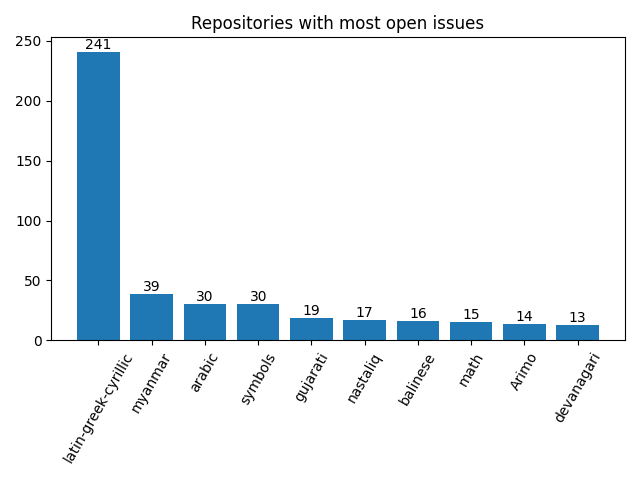
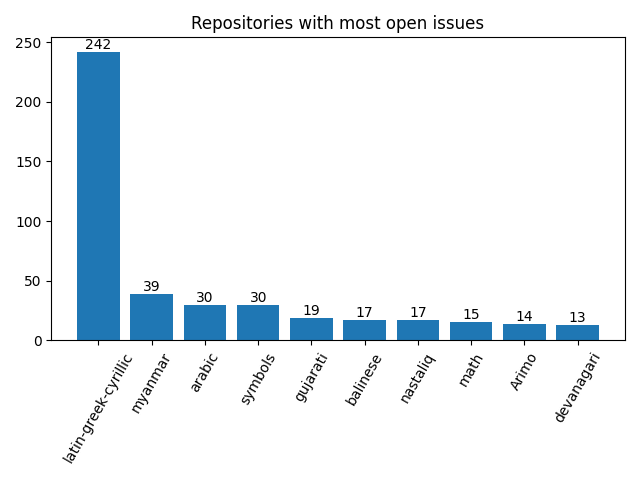
Apply automatic changes

diff --git a/docs/analytics.html b/docs/analytics.html
@@ -79,7 +79,7 @@ td .material-icons { display:inline-flex; vertical-align: top; font-size:1.1rem;
 						</tr>
 						<tr>
 							<td>Mar</td>
-							<td>26</td>
+							<td>27</td>
 							<td>11</td>
 						</tr>
 						<tr>
@@ -124,7 +124,7 @@ td .material-icons { display:inline-flex; vertical-align: top; font-size:1.1rem;
 						</tr>
 						<tr>
 							<td>Dec</td>
-							<td>2</td>
+							<td>7</td>
 							<td>13</td>
 						</tr>
 					</table>
@@ -145,7 +145,7 @@ td .material-icons { display:inline-flex; vertical-align: top; font-size:1.1rem;
 							<td>
 								<a href="http://github.com/notofonts/latin-greek-cyrillic">latin-greek-cyrillic</a>
 							</td>
-							<td>241</td>
+							<td>242</td>
 						</tr>
 						<tr>
 							<td>
@@ -173,15 +173,15 @@ td .material-icons { display:inline-flex; vertical-align: top; font-size:1.1rem;
 						</tr>
 						<tr>
 							<td>
-								<a href="http://github.com/notofonts/nastaliq">nastaliq</a>
+								<a href="http://github.com/notofonts/balinese">balinese</a>
 							</td>
 							<td>17</td>
 						</tr>
 						<tr>
 							<td>
-								<a href="http://github.com/notofonts/balinese">balinese</a>
+								<a href="http://github.com/notofonts/nastaliq">nastaliq</a>
 							</td>
-							<td>16</td>
+							<td>17</td>
 						</tr>
 						<tr>
 							<td>
@@ -216,25 +216,25 @@ td .material-icons { display:inline-flex; vertical-align: top; font-size:1.1rem;
 				<tr>
 					<td>1</td>
 					<td>
-						<a href="http://github.com/notofonts/avestan">avestan</a>,  						<a href="http://github.com/notofonts/bamum">bamum</a>,  						<a href="http://github.com/notofonts/carian">carian</a>,  						<a href="http://github.com/notofonts/deseret">deseret</a>,  						<a href="http://github.com/notofonts/gothic">gothic</a>,  						<a href="http://github.com/notofonts/hanunoo">hanunoo</a>,  						<a href="http://github.com/notofonts/inscriptional-parthian">inscriptional-parthian</a>,  						<a href="http://github.com/notofonts/linear-a">linear-a</a>,  						<a href="http://github.com/notofonts/lisu">lisu</a>,  						<a href="http://github.com/notofonts/mahajani">mahajani</a>,  						<a href="http://github.com/notofonts/masaram-gondi">masaram-gondi</a>,  						<a href="http://github.com/notofonts/meetei-mayek">meetei-mayek</a>,  						<a href="http://github.com/notofonts/mende-kikakui">mende-kikakui</a>,  						<a href="http://github.com/notofonts/miao">miao</a>,  						<a href="http://github.com/notofonts/newa">newa</a>,  						<a href="http://github.com/notofonts/old-hungarian-ui">old-hungarian-ui</a>,  						<a href="http://github.com/notofonts/old-italic">old-italic</a>,  						<a href="http://github.com/notofonts/old-persian">old-persian</a>,  						<a href="http://github.com/notofonts/old-uyghur">old-uyghur</a>,  						<a href="http://github.com/notofonts/phoenician">phoenician</a>,  						<a href="http://github.com/notofonts/runic">runic</a>,  						<a href="http://github.com/notofonts/saurashtra">saurashtra</a>,  						<a href="http://github.com/notofonts/sinhala">sinhala</a>,  						<a href="http://github.com/notofonts/sogdian">sogdian</a>,  						<a href="http://github.com/notofonts/tai-le">tai-le</a>,  						<a href="http://github.com/notofonts/thaana">thaana</a>,  						<a href="http://github.com/notofonts/wancho">wancho</a>,  						<a href="http://github.com/notofonts/warang-citi">warang-citi</a> 
+						<a href="http://github.com/notofonts/avestan">avestan</a>,  						<a href="http://github.com/notofonts/bamum">bamum</a>,  						<a href="http://github.com/notofonts/carian">carian</a>,  						<a href="http://github.com/notofonts/deseret">deseret</a>,  						<a href="http://github.com/notofonts/gothic">gothic</a>,  						<a href="http://github.com/notofonts/hanunoo">hanunoo</a>,  						<a href="http://github.com/notofonts/inscriptional-parthian">inscriptional-parthian</a>,  						<a href="http://github.com/notofonts/linear-a">linear-a</a>,  						<a href="http://github.com/notofonts/lisu">lisu</a>,  						<a href="http://github.com/notofonts/mahajani">mahajani</a>,  						<a href="http://github.com/notofonts/masaram-gondi">masaram-gondi</a>,  						<a href="http://github.com/notofonts/meetei-mayek">meetei-mayek</a>,  						<a href="http://github.com/notofonts/mende-kikakui">mende-kikakui</a>,  						<a href="http://github.com/notofonts/miao">miao</a>,  						<a href="http://github.com/notofonts/newa">newa</a>,  						<a href="http://github.com/notofonts/old-italic">old-italic</a>,  						<a href="http://github.com/notofonts/old-persian">old-persian</a>,  						<a href="http://github.com/notofonts/old-uyghur">old-uyghur</a>,  						<a href="http://github.com/notofonts/phoenician">phoenician</a>,  						<a href="http://github.com/notofonts/runic">runic</a>,  						<a href="http://github.com/notofonts/saurashtra">saurashtra</a>,  						<a href="http://github.com/notofonts/sinhala">sinhala</a>,  						<a href="http://github.com/notofonts/sogdian">sogdian</a>,  						<a href="http://github.com/notofonts/tai-le">tai-le</a>,  						<a href="http://github.com/notofonts/thaana">thaana</a>,  						<a href="http://github.com/notofonts/wancho">wancho</a>,  						<a href="http://github.com/notofonts/warang-citi">warang-citi</a> 
 					</td>
 				</tr>
 				<tr>
 					<td>2</td>
 					<td>
-						<a href="http://github.com/notofonts/cham">cham</a>,  						<a href="http://github.com/notofonts/chorasmian">chorasmian</a>,  						<a href="http://github.com/notofonts/coptic">coptic</a>,  						<a href="http://github.com/notofonts/elbasan">elbasan</a>,  						<a href="http://github.com/notofonts/elymaic">elymaic</a>,  						<a href="http://github.com/notofonts/georgian">georgian</a>,  						<a href="http://github.com/notofonts/hanifi-rohingya">hanifi-rohingya</a>,  						<a href="http://github.com/notofonts/inscriptional-pahlavi">inscriptional-pahlavi</a>,  						<a href="http://github.com/notofonts/kharoshthi">kharoshthi</a>,  						<a href="http://github.com/notofonts/lao">lao</a>,  						<a href="http://github.com/notofonts/limbu">limbu</a>,  						<a href="http://github.com/notofonts/lydian">lydian</a>,  						<a href="http://github.com/notofonts/marchen">marchen</a>,  						<a href="http://github.com/notofonts/meroitic">meroitic</a>,  						<a href="http://github.com/notofonts/multani">multani</a>,  						<a href="http://github.com/notofonts/nko">nko</a>,  						<a href="http://github.com/notofonts/old-hungarian">old-hungarian</a>,  						<a href="http://github.com/notofonts/old-turkic">old-turkic</a>,  						<a href="http://github.com/notofonts/pahawh-hmong">pahawh-hmong</a>,  						<a href="http://github.com/notofonts/phags-pa">phags-pa</a>,  						<a href="http://github.com/notofonts/psalter-pahlavi">psalter-pahlavi</a>,  						<a href="http://github.com/notofonts/samaritan">samaritan</a>,  						<a href="http://github.com/notofonts/sharada">sharada</a>,  						<a href="http://github.com/notofonts/yezidi">yezidi</a>,  						<a href="http://github.com/notofonts/zanabazar-square">zanabazar-square</a> 
+						<a href="http://github.com/notofonts/cham">cham</a>,  						<a href="http://github.com/notofonts/chorasmian">chorasmian</a>,  						<a href="http://github.com/notofonts/coptic">coptic</a>,  						<a href="http://github.com/notofonts/elbasan">elbasan</a>,  						<a href="http://github.com/notofonts/elymaic">elymaic</a>,  						<a href="http://github.com/notofonts/georgian">georgian</a>,  						<a href="http://github.com/notofonts/hanifi-rohingya">hanifi-rohingya</a>,  						<a href="http://github.com/notofonts/inscriptional-pahlavi">inscriptional-pahlavi</a>,  						<a href="http://github.com/notofonts/kharoshthi">kharoshthi</a>,  						<a href="http://github.com/notofonts/lao">lao</a>,  						<a href="http://github.com/notofonts/limbu">limbu</a>,  						<a href="http://github.com/notofonts/lydian">lydian</a>,  						<a href="http://github.com/notofonts/marchen">marchen</a>,  						<a href="http://github.com/notofonts/meroitic">meroitic</a>,  						<a href="http://github.com/notofonts/multani">multani</a>,  						<a href="http://github.com/notofonts/nko">nko</a>,  						<a href="http://github.com/notofonts/old-hungarian-ui">old-hungarian-ui</a>,  						<a href="http://github.com/notofonts/old-turkic">old-turkic</a>,  						<a href="http://github.com/notofonts/pahawh-hmong">pahawh-hmong</a>,  						<a href="http://github.com/notofonts/phags-pa">phags-pa</a>,  						<a href="http://github.com/notofonts/psalter-pahlavi">psalter-pahlavi</a>,  						<a href="http://github.com/notofonts/samaritan">samaritan</a>,  						<a href="http://github.com/notofonts/sharada">sharada</a>,  						<a href="http://github.com/notofonts/yezidi">yezidi</a>,  						<a href="http://github.com/notofonts/zanabazar-square">zanabazar-square</a> 
 					</td>
 				</tr>
 				<tr>
 					<td>3</td>
 					<td>
-						<a href="http://github.com/notofonts/Cousine">Cousine</a>,  						<a href="http://github.com/notofonts/Tinos">Tinos</a>,  						<a href="http://github.com/notofonts/ahom">ahom</a>,  						<a href="http://github.com/notofonts/duployan">duployan</a>,  						<a href="http://github.com/notofonts/ethiopic">ethiopic</a>,  						<a href="http://github.com/notofonts/glagolitic">glagolitic</a>,  						<a href="http://github.com/notofonts/gunjala-gondi">gunjala-gondi</a>,  						<a href="http://github.com/notofonts/mandaic">mandaic</a>,  						<a href="http://github.com/notofonts/nandinagari">nandinagari</a>,  						<a href="http://github.com/notofonts/nushu">nushu</a>,  						<a href="http://github.com/notofonts/nyiakeng-puachue-hmong">nyiakeng-puachue-hmong</a>,  						<a href="http://github.com/notofonts/old-sogdian">old-sogdian</a>,  						<a href="http://github.com/notofonts/rejang">rejang</a>,  						<a href="http://github.com/notofonts/soyombo">soyombo</a>,  						<a href="http://github.com/notofonts/tagalog">tagalog</a>,  						<a href="http://github.com/notofonts/tai-viet">tai-viet</a>,  						<a href="http://github.com/notofonts/takri">takri</a>,  						<a href="http://github.com/notofonts/tangsa">tangsa</a> 
+						<a href="http://github.com/notofonts/Cousine">Cousine</a>,  						<a href="http://github.com/notofonts/Tinos">Tinos</a>,  						<a href="http://github.com/notofonts/ahom">ahom</a>,  						<a href="http://github.com/notofonts/duployan">duployan</a>,  						<a href="http://github.com/notofonts/ethiopic">ethiopic</a>,  						<a href="http://github.com/notofonts/glagolitic">glagolitic</a>,  						<a href="http://github.com/notofonts/gunjala-gondi">gunjala-gondi</a>,  						<a href="http://github.com/notofonts/mandaic">mandaic</a>,  						<a href="http://github.com/notofonts/nushu">nushu</a>,  						<a href="http://github.com/notofonts/nyiakeng-puachue-hmong">nyiakeng-puachue-hmong</a>,  						<a href="http://github.com/notofonts/old-hungarian">old-hungarian</a>,  						<a href="http://github.com/notofonts/old-sogdian">old-sogdian</a>,  						<a href="http://github.com/notofonts/rejang">rejang</a>,  						<a href="http://github.com/notofonts/soyombo">soyombo</a>,  						<a href="http://github.com/notofonts/tagalog">tagalog</a>,  						<a href="http://github.com/notofonts/tai-viet">tai-viet</a>,  						<a href="http://github.com/notofonts/tangsa">tangsa</a> 
 					</td>
 				</tr>
 				<tr>
 					<td>4</td>
 					<td>
-						<a href="http://github.com/notofonts/armenian">armenian</a>,  						<a href="http://github.com/notofonts/caucasian-albanian">caucasian-albanian</a>,  						<a href="http://github.com/notofonts/dogra">dogra</a>,  						<a href="http://github.com/notofonts/grantha">grantha</a>,  						<a href="http://github.com/notofonts/khudawadi">khudawadi</a>,  						<a href="http://github.com/notofonts/manichaean">manichaean</a>,  						<a href="http://github.com/notofonts/oriya">oriya</a>,  						<a href="http://github.com/notofonts/sundanese">sundanese</a>,  						<a href="http://github.com/notofonts/tai-tham">tai-tham</a>,  						<a href="http://github.com/notofonts/telugu">telugu</a> 
+						<a href="http://github.com/notofonts/armenian">armenian</a>,  						<a href="http://github.com/notofonts/caucasian-albanian">caucasian-albanian</a>,  						<a href="http://github.com/notofonts/dogra">dogra</a>,  						<a href="http://github.com/notofonts/grantha">grantha</a>,  						<a href="http://github.com/notofonts/khudawadi">khudawadi</a>,  						<a href="http://github.com/notofonts/manichaean">manichaean</a>,  						<a href="http://github.com/notofonts/nandinagari">nandinagari</a>,  						<a href="http://github.com/notofonts/oriya">oriya</a>,  						<a href="http://github.com/notofonts/sundanese">sundanese</a>,  						<a href="http://github.com/notofonts/tai-tham">tai-tham</a>,  						<a href="http://github.com/notofonts/takri">takri</a>,  						<a href="http://github.com/notofonts/telugu">telugu</a> 
 					</td>
 				</tr>
 				<tr>
@@ -614,11 +614,14 @@ td .material-icons { display:inline-flex; vertical-align: top; font-size:1.1rem;
 									data-target="#month-Dec .releases"
 								>
 									<span class="material-icons"></span>
-									2 releases
+									5 releases
 								</button>
 								<ul class="releases collapse">
+									<li><a href="https://github.com/notofonts/cypro-minoan/releases/tag/NotoSansCyproMinoan-v1.503">NotoSansCyproMinoan-v1.503</a></li>
 									<li><a href="https://github.com/notofonts/gunjala-gondi/releases/tag/NotoSansGunjalaGondi-v1.003">NotoSansGunjalaGondi-v1.003</a></li>
 									<li><a href="https://github.com/notofonts/nandinagari/releases/tag/NotoSansNandinagari-v1.001">NotoSansNandinagari-v1.001</a></li>
+									<li><a href="https://github.com/notofonts/nushu/releases/tag/NotoSansNushu-v1.003">NotoSansNushu-v1.003</a></li>
+									<li><a href="https://github.com/notofonts/tamil/releases/tag/NotoSansTamilSupplement-v2.001">NotoSansTamilSupplement-v2.001</a></li>
 								</ul>
 							</td>
 						</tr>
